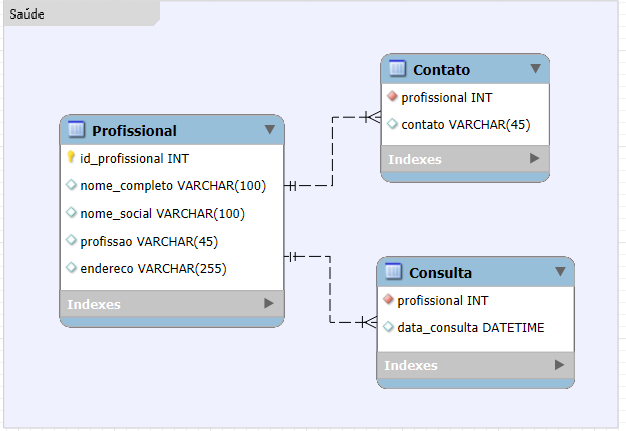
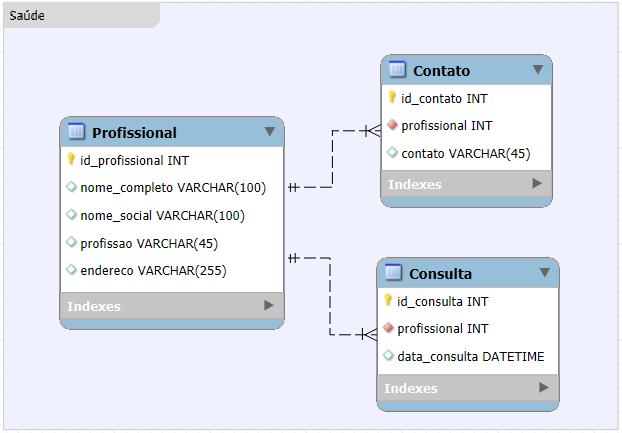
feat: :sparkles: created CRUD

Changed region(s): [[0.0916, 0.1206, 0.9164, 0.7842], [0.5193, 0.5731, 0.9469, 0.9652], [0.0, 0.0, 1.0, 0.9954]]

diff --git a/api_lacrei/views.py b/api_lacrei/views.py
@@ -1,3 +1,181 @@
-from django.shortcuts import render
+from rest_framework.decorators import api_view
+from rest_framework.response import Response
+from rest_framework import status
 
-# Create your views here.
+from .models import Profissional, Contato, Consulta
+from .serializers import ProfissionalSerializer, ConsultaSerializer, ContatoSerializer
+
+
+# Função central para CRUD
+@api_view(['GET', 'POST', 'PUT', 'DELETE'])
+def handle_request(request, model_name):
+    if model_name == 'profissionais':
+        return profissional_crud(request)
+    elif model_name == 'contatos':
+        return contato_crud(request)
+    elif model_name == 'consultas':
+        return consulta_crud(request)
+    else:
+        return Response({'error': 'Model não encontrado'}, status=status.HTTP_400_BAD_REQUEST)
+
+
+# CRUD - Profissionais
+def profissional_crud(request):
+    # Inserir novo Profissional
+    if request.method == 'POST':
+        profissional = ProfissionalSerializer(data=request.data)
+        if not profissional.is_valid():
+            return Response(profissional.errors, status=status.HTTP_400_BAD_REQUEST)
+        
+        profissional.save()
+        return Response(profissional.data, status=status.HTTP_201_CREATED)
+    
+    # Atualizar dados de um Profissional
+    elif request.method == 'PUT':
+        try:
+            id_profissional = request.data.get('id_profissional')
+      
+            profissional = Profissional.objects.get(id_profissional=id_profissional)
+            serializer = ProfissionalSerializer(profissional, data=request.data, partial=True)
+
+            if not serializer.is_valid():
+                    return Response(serializer.errors, status=status.HTTP_400_BAD_REQUEST)
+            
+            serializer.save()
+            return Response(serializer.data, status=status.HTTP_200_OK) 
+        except:
+            return Response({'error': 'Profissional não encontrado'}, status=status.HTTP_404_NOT_FOUND)
+    
+    # Deletar Profissional 
+    elif request.method == 'DELETE':
+        try:
+            id_profissional = request.data.get('id_profissional')
+            profissional = Profissional.objects.get(id_profissional=id_profissional)
+            profissional.delete()
+            return Response({'message': 'Profissional deletado com sucesso'}, status=status.HTTP_204_NO_CONTENT)
+        except Profissional.DoesNotExist:
+            return Response({'error': 'Profissional não encontrado'}, status=status.HTTP_404_NOT_FOUND)
+
+    else:
+        return Response({'error': 'Método não suportado'}, status=status.HTTP_405_METHOD_NOT_ALLOWED)
+    
+
+# CRUD - Contatos
+def contato_crud(request):
+    # Inserir novo Contato
+    if request.method == 'POST':
+        contato = ContatoSerializer(data=request.data)
+        
+        if not contato.is_valid():
+            return Response(contato.errors, status=status.HTTP_400_BAD_REQUEST)
+        
+        try:
+            profissional_id = contato.validated_data['profissional'].id_profissional
+            Profissional.objects.get(id_profissional=profissional_id)
+        except Profissional.DoesNotExist:
+            return Response({'error': 'Não existe profissional vinculado ao id passado'}, status=status.HTTP_404_NOT_FOUND)
+        
+        contato.save()
+        return Response(contato.data, status=status.HTTP_201_CREATED)
+
+    # Atualizar Contato
+    elif request.method == 'PUT':
+
+        id_contato = request.data.get('id_contato')
+        
+        try:
+            # Encontre o contato a ser atualizado
+            contato = Contato.objects.get(id_contato=id_contato)
+            serializer = ContatoSerializer(contato, data=request.data, partial=True)
+            
+            # Valide os dados
+            if not serializer.is_valid():
+                return Response(serializer.errors, status=status.HTTP_400_BAD_REQUEST)
+            
+            # Salve as alterações
+            serializer.save()
+            return Response(serializer.data, status=status.HTTP_200_OK)
+        
+        except Contato.DoesNotExist:
+            return Response({'error': 'Profissional não encontrado'}, status=status.HTTP_404_NOT_FOUND)
+    
+    # Deletar Contato 
+    elif request.method == 'DELETE':
+        try:
+            id_contato = request.data.get('id_contato')
+            contato = Contato.objects.get(id_contato=id_contato)
+            contato.delete()
+            return Response({'message': 'Contato deletado com sucesso'}, status=status.HTTP_204_NO_CONTENT)
+        except Contato.DoesNotExist:
+            return Response({'error': 'Contato não encontrado'}, status=status.HTTP_404_NOT_FOUND)
+        
+    else:
+        return Response({'error': 'Método não suportado'}, status=status.HTTP_405_METHOD_NOT_ALLOWED)
+
+
+# CRUD - Consultas
+def consulta_crud(request):
+    # Inserir nova Consulta
+    if request.method == 'POST':
+        consulta = ConsultaSerializer(data=request.data)
+
+        if not consulta.is_valid():
+            return Response(consulta.errors, status=status.HTTP_400_BAD_REQUEST)
+
+        try:
+            profissional_id = consulta.validated_data['profissional'].id_profissional
+            Profissional.objects.get(id_profissional=profissional_id)
+        except Profissional.DoesNotExist:
+            return Response({'error': 'Não existe profissional vinculado ao id passado'}, status=status.HTTP_404_NOT_FOUND)
+        
+        consulta.save()
+        return Response(consulta.data, status=status.HTTP_201_CREATED)
+    
+    # Atualizar Consulta
+    elif request.method == 'PUT':
+
+        id_consulta = request.data.get('id_consulta')
+        
+        try:
+            # Encontre a consulta a ser atualizado
+            consulta =  Consulta.objects.get(id_consulta=id_consulta)
+            serializer = ConsultaSerializer(consulta, data=request.data, partial=True)
+            
+            # Valide os dados
+            if not serializer.is_valid():
+                return Response(serializer.errors, status=status.HTTP_400_BAD_REQUEST)
+            
+            # Salve as alterações
+            serializer.save()
+            return Response(serializer.data, status=status.HTTP_200_OK)
+        
+        except Contato.DoesNotExist:
+            return Response({'error': 'Profissional não encontrado'}, status=status.HTTP_404_NOT_FOUND)
+
+    # Deletar Consulta 
+    elif request.method == 'DELETE':
+        try:
+            id_consulta = request.data.get('id_consulta')
+            consulta = Consulta.objects.get(id_consulta=id_consulta)
+            consulta.delete()
+            return Response({'message': 'Consulta deletado com sucesso'}, status=status.HTTP_204_NO_CONTENT)
+        except Consulta.DoesNotExist:
+            return Response({'error': 'Consulta não encontrado'}, status=status.HTTP_404_NOT_FOUND)
+    
+    # GET consulta pelo id do profissional
+    elif request.method == 'GET':
+        id_profissional = request.data.get('id_profissional')
+        try:
+            consulta = Consulta.objects.filter(profissional=id_profissional)
+
+            if not consulta.exists():
+                return Response({'error': 'Consultado não encontrada'}, status=status.HTTP_404_NOT_FOUND)
+            
+            serializer = ConsultaSerializer(consulta, many=True)
+
+            return Response(serializer.data, status=status.HTTP_200_OK )    
+        except Profissional.DoesNotExist:
+                return Response({'error': 'Profissional não encontrado'}, status=status.HTTP_404_NOT_FOUND)
+
+    else:
+        return Response({'error': 'Método não suportado'}, status=status.HTTP_405_METHOD_NOT_ALLOWED)

diff --git a/api_root/urls.py b/api_root/urls.py
@@ -1,22 +1,8 @@
-"""
-URL configuration for api_root project.
-
-The `urlpatterns` list routes URLs to views. For more information please see:
-    https://docs.djangoproject.com/en/5.1/topics/http/urls/
-Examples:
-Function views
-    1. Add an import:  from my_app import views
-    2. Add a URL to urlpatterns:  path('', views.home, name='home')
-Class-based views
-    1. Add an import:  from other_app.views import Home
-    2. Add a URL to urlpatterns:  path('', Home.as_view(), name='home')
-Including another URLconf
-    1. Import the include() function: from django.urls import include, path
-    2. Add a URL to urlpatterns:  path('blog/', include('blog.urls'))
-"""
 from django.contrib import admin
-from django.urls import path
+from django.urls import path, include
+
 
 urlpatterns = [
     path('admin/', admin.site.urls),
+    path('api/', include('api_lacrei.urls'), name='api_lacrei_urls')
 ]

diff --git a/api_lacrei/urls.py b/api_lacrei/urls.py
@@ -1,0 +1,9 @@
+from django.contrib import admin
+from django.urls import path
+
+from . import views
+
+
+urlpatterns = [
+    path('<str:model_name>/', views.handle_request, name='handle_request'),
+] 
